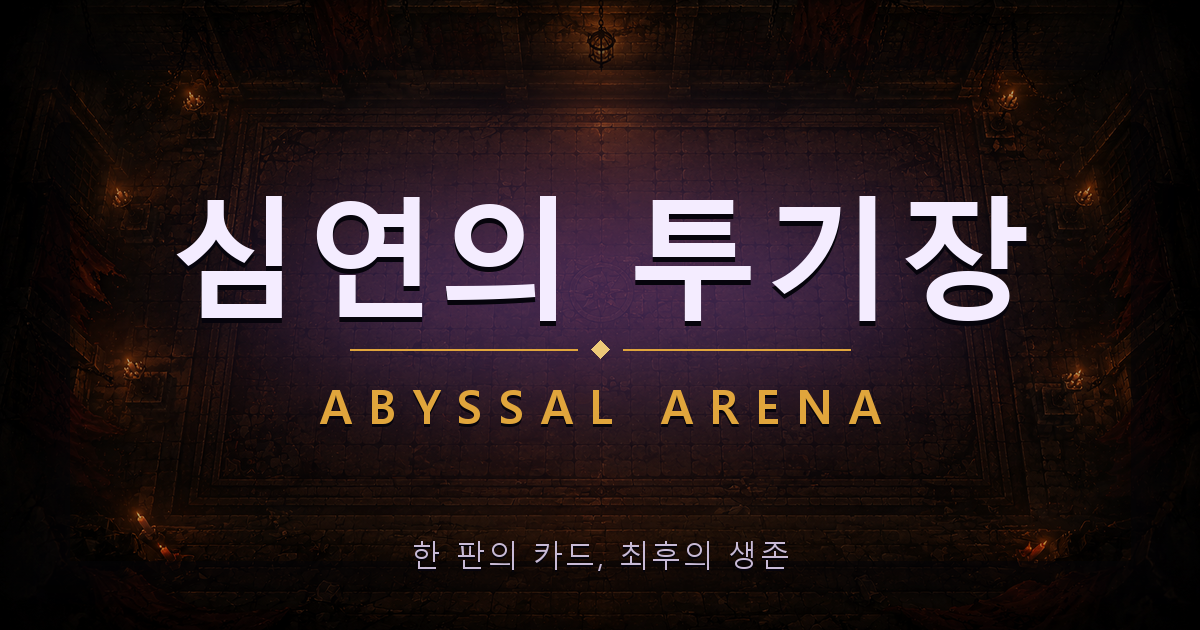
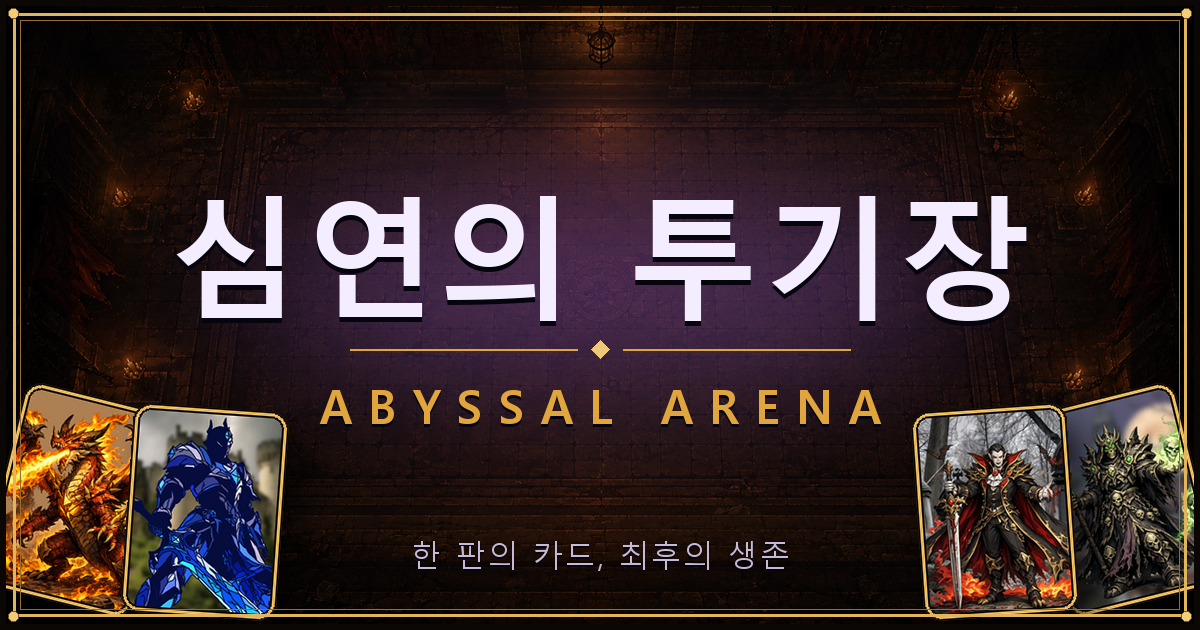
링크 미리보기(OG 카드) 꾸미기 — og-cover.png에 카드 아트 팬(용·기사 / 강령술사·뱀파이어군주)을 하단 좌우에 합성하고 금장 이중 프레임+모서리 보석을 둘러 카드게임 감성 강화. OG/트위터 이미지 URL을 항상 켜져 있는 Vercel 도메인으로 전환(Render 콜드스타트 시 스크래퍼가 이미지를 못 받던 문제 회피)하고 ?v=332 캐시버스터로 카톡 재수집 유도. og:image:secure_url/type/alt 추가, 제목에 ⚔, 설명 보강. sw v332→v333 Co-Authored-By: Claude Op

Changed region(s): [[0.0, 0.0, 1.0, 0.9952]]

diff --git a/cardbattle/apps/client/index.html b/cardbattle/apps/client/index.html
@@ -4,24 +4,27 @@
     <meta charset="UTF-8" />
     <meta name="viewport" content="width=device-width, initial-scale=1.0, viewport-fit=cover" />
     <title>심연의 투기장 · ABYSSAL ARENA</title>
-    <meta name="description" content="한 판의 카드로 겨루는 실시간 카드 배틀. 최후의 1인이 되어라." />
+    <meta name="description" content="촛불 켜진 투기장에서 한 판의 카드로 겨루는 실시간 1:1 카드 배틀. 최후의 1인이 되어라." />
     <!-- Open Graph (KakaoTalk, Discord, Facebook 등 링크 미리보기) -->
     <meta property="og:type" content="website" />
     <meta property="og:site_name" content="심연의 투기장" />
-    <meta property="og:title" content="심연의 투기장 · ABYSSAL ARENA" />
-    <meta property="og:description" content="한 판의 카드로 겨루는 실시간 카드 배틀. 최후의 1인이 되어라." />
-    <meta property="og:url" content="https://cardbattle.onrender.com" />
-    <meta property="og:image" content="https://cardbattle.onrender.com/og-cover.png" />
+    <meta property="og:title" content="⚔ 심연의 투기장 · ABYSSAL ARENA" />
+    <meta property="og:description" content="촛불 켜진 투기장에서 한 판의 카드로 겨루는 실시간 1:1 카드 배틀. 친구를 초대해 최후의 1인이 되어라." />
+    <meta property="og:url" content="https://cardbattle-brxi.vercel.app" />
+    <meta property="og:image" content="https://cardbattle-brxi.vercel.app/og-cover.png?v=332" />
+    <meta property="og:image:secure_url" content="https://cardbattle-brxi.vercel.app/og-cover.png?v=332" />
+    <meta property="og:image:type" content="image/png" />
     <meta property="og:image:width" content="1200" />
     <meta property="og:image:height" content="630" />
+    <meta property="og:image:alt" content="심연의 투기장 · ABYSSAL ARENA 카드 배틀" />
     <meta property="og:locale" content="ko_KR" />
     <!-- Twitter/X 카드 -->
     <meta name="twitter:card" content="summary_large_image" />
-    <meta name="twitter:title" content="심연의 투기장 · ABYSSAL ARENA" />
-    <meta name="twitter:description" content="한 판의 카드로 겨루는 실시간 카드 배틀. 최후의 1인이 되어라." />
-    <meta name="twitter:image" content="https://cardbattle.onrender.com/og-cover.png" />
+    <meta name="twitter:title" content="⚔ 심연의 투기장 · ABYSSAL ARENA" />
+    <meta name="twitter:description" content="촛불 켜진 투기장에서 한 판의 카드로 겨루는 실시간 1:1 카드 배틀. 친구를 초대해 최후의 1인이 되어라." />
+    <meta name="twitter:image" content="https://cardbattle-brxi.vercel.app/og-cover.png?v=332" />
     <link rel="manifest" href="/manifest.webmanifest" />
-    <meta name="theme-color" content="#0e1018" />
+    <meta name="theme-color" content="#140e09" />
     <link rel="icon" type="image/svg+xml" href="/icon.svg" />
     <link rel="apple-touch-icon" href="/icon.svg" />
     <meta name="mobile-web-app-capable" content="yes" />

diff --git a/cardbattle/apps/client/public/sw.js b/cardbattle/apps/client/public/sw.js
@@ -1,7 +1,7 @@
 // Minimal service worker — makes the game installable and gives the app shell
 // an offline fallback. It never touches the Colyseus server (different origin),
 // so live multiplayer traffic is untouched.
-const CACHE = 'cardbattle-v332';
+const CACHE = 'cardbattle-v333';
 const SHELL = ['/', '/index.html', '/manifest.webmanifest', '/icon.svg'];
 
 self.addEventListener('install', (event) => {
